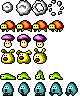
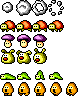
Blue guy changed to sand egg

diff --git a/src/enemytypes.js b/src/enemytypes.js
@@ -13,7 +13,7 @@ import { Enemy } from "./enemy.js";
 
 export function getEnemyType(index) {
 
-    const TYPES = [Turtle, Fungus, Bunny, Caterpillar, BlueGuy];
+    const TYPES = [Turtle, Fungus, Bunny, Caterpillar, SandEgg];
     
     return TYPES[clamp(index, 0, TYPES.length-1) | 0];
 }
@@ -364,14 +364,17 @@ export class Bunny extends Enemy {
 }
 
 
-export class BlueGuy extends Enemy {
+const SAND_EGG_WAIT = 60;
+
+
+export class SandEgg extends Enemy {
 	
 	
 	constructor(x, y) {
 		
 		super(x, y, 4, 2, 1);
 		
-		this.friction.x = 0.025;
+		this.friction.x = 0.05;
 		
 		this.oldCanJump = true;
 		
@@ -380,38 +383,74 @@ export class BlueGuy extends Enemy {
         // this.hitbox = new Vector2(8, 8);
         this.renderOffset.y = 1;
 
-        this.mass = 0.5;
+		this.mass = 0.5;
+		
+		this.waitTimer = SAND_EGG_WAIT;
+		this.waiting = true;
+
+		// Use Fibonacci sequence to determine
+		// direction in a pseudo-random way
+		this.fprev = 0;
+		this.fcurrent = 1;
 	}
 	
 	
 	init(x, y) {
 		
-		const BASE_SPEED = 0.25;
-		const BASE_GRAVITY = 2.0;
+		const BASE_GRAVITY = 3.0;
 		
 		this.dir = 2 - 1 * (((x / 16) | 0) % 2);
 		this.flip = this.dir > 0 ? Flip.Horizontal : Flip.None;
 		
-		this.target.x = BASE_SPEED;
-		this.speed.x = this.target.x;
 		this.target.y = BASE_GRAVITY;
 	}
 	
 	
 	updateAI(ev) {
 
+		const BASE_SPEED = 0.5;
+
+		let prev = this.fcurrent;
+
+		if ((this.waitTimer -= ev.step) <= 0) {
+
+			this.waitTimer += SAND_EGG_WAIT;
+			if (this.waiting) {
+
+				this.fcurrent += this.fprev;
+				this.fprev = prev;
+
+				this.dir = 1 - 2 * (this.fcurrent % 2);
+
+				this.waitTimer += ((this.pos.x | 0)) % SAND_EGG_WAIT;
+			}
+
+			this.waiting = !this.waiting;
+		}
+
+		if (this.waiting) {
+
+			this.target.x = 0;
+		}
+		else {
+
+			this.target.x = BASE_SPEED * this.dir;
+		}
 	}
 	
 	
 	animate(ev) {
 		
-		const WALK_ANIM_SPEED = 6.0;
+		const WALK_ANIM_SPEED = 8.0;
 		
 		this.flip = this.dir > 0 ? Flip.Horizontal : Flip.None;
 		
 		if (this.canJump) {
 			
-			this.spr.animate(this.spr.row, 0, 3, WALK_ANIM_SPEED, ev.step);
+			if (this.waiting)
+				this.spr.setFrame(0, this.spr.row);
+			else
+				this.spr.animate(this.spr.row, 0, 3, WALK_ANIM_SPEED, ev.step);
 		}
 		else {
 
@@ -422,9 +461,7 @@ export class BlueGuy extends Enemy {
 	
 	wallCollisionEvent(x, y, h, dir, ev) {
 		
-		this.speed.x *= -1;
-		this.target.x *= -1;
-		
-		this.dir *= -1;
+		if (!this.waiting)
+			this.dir *= -1;
 	}
 }
